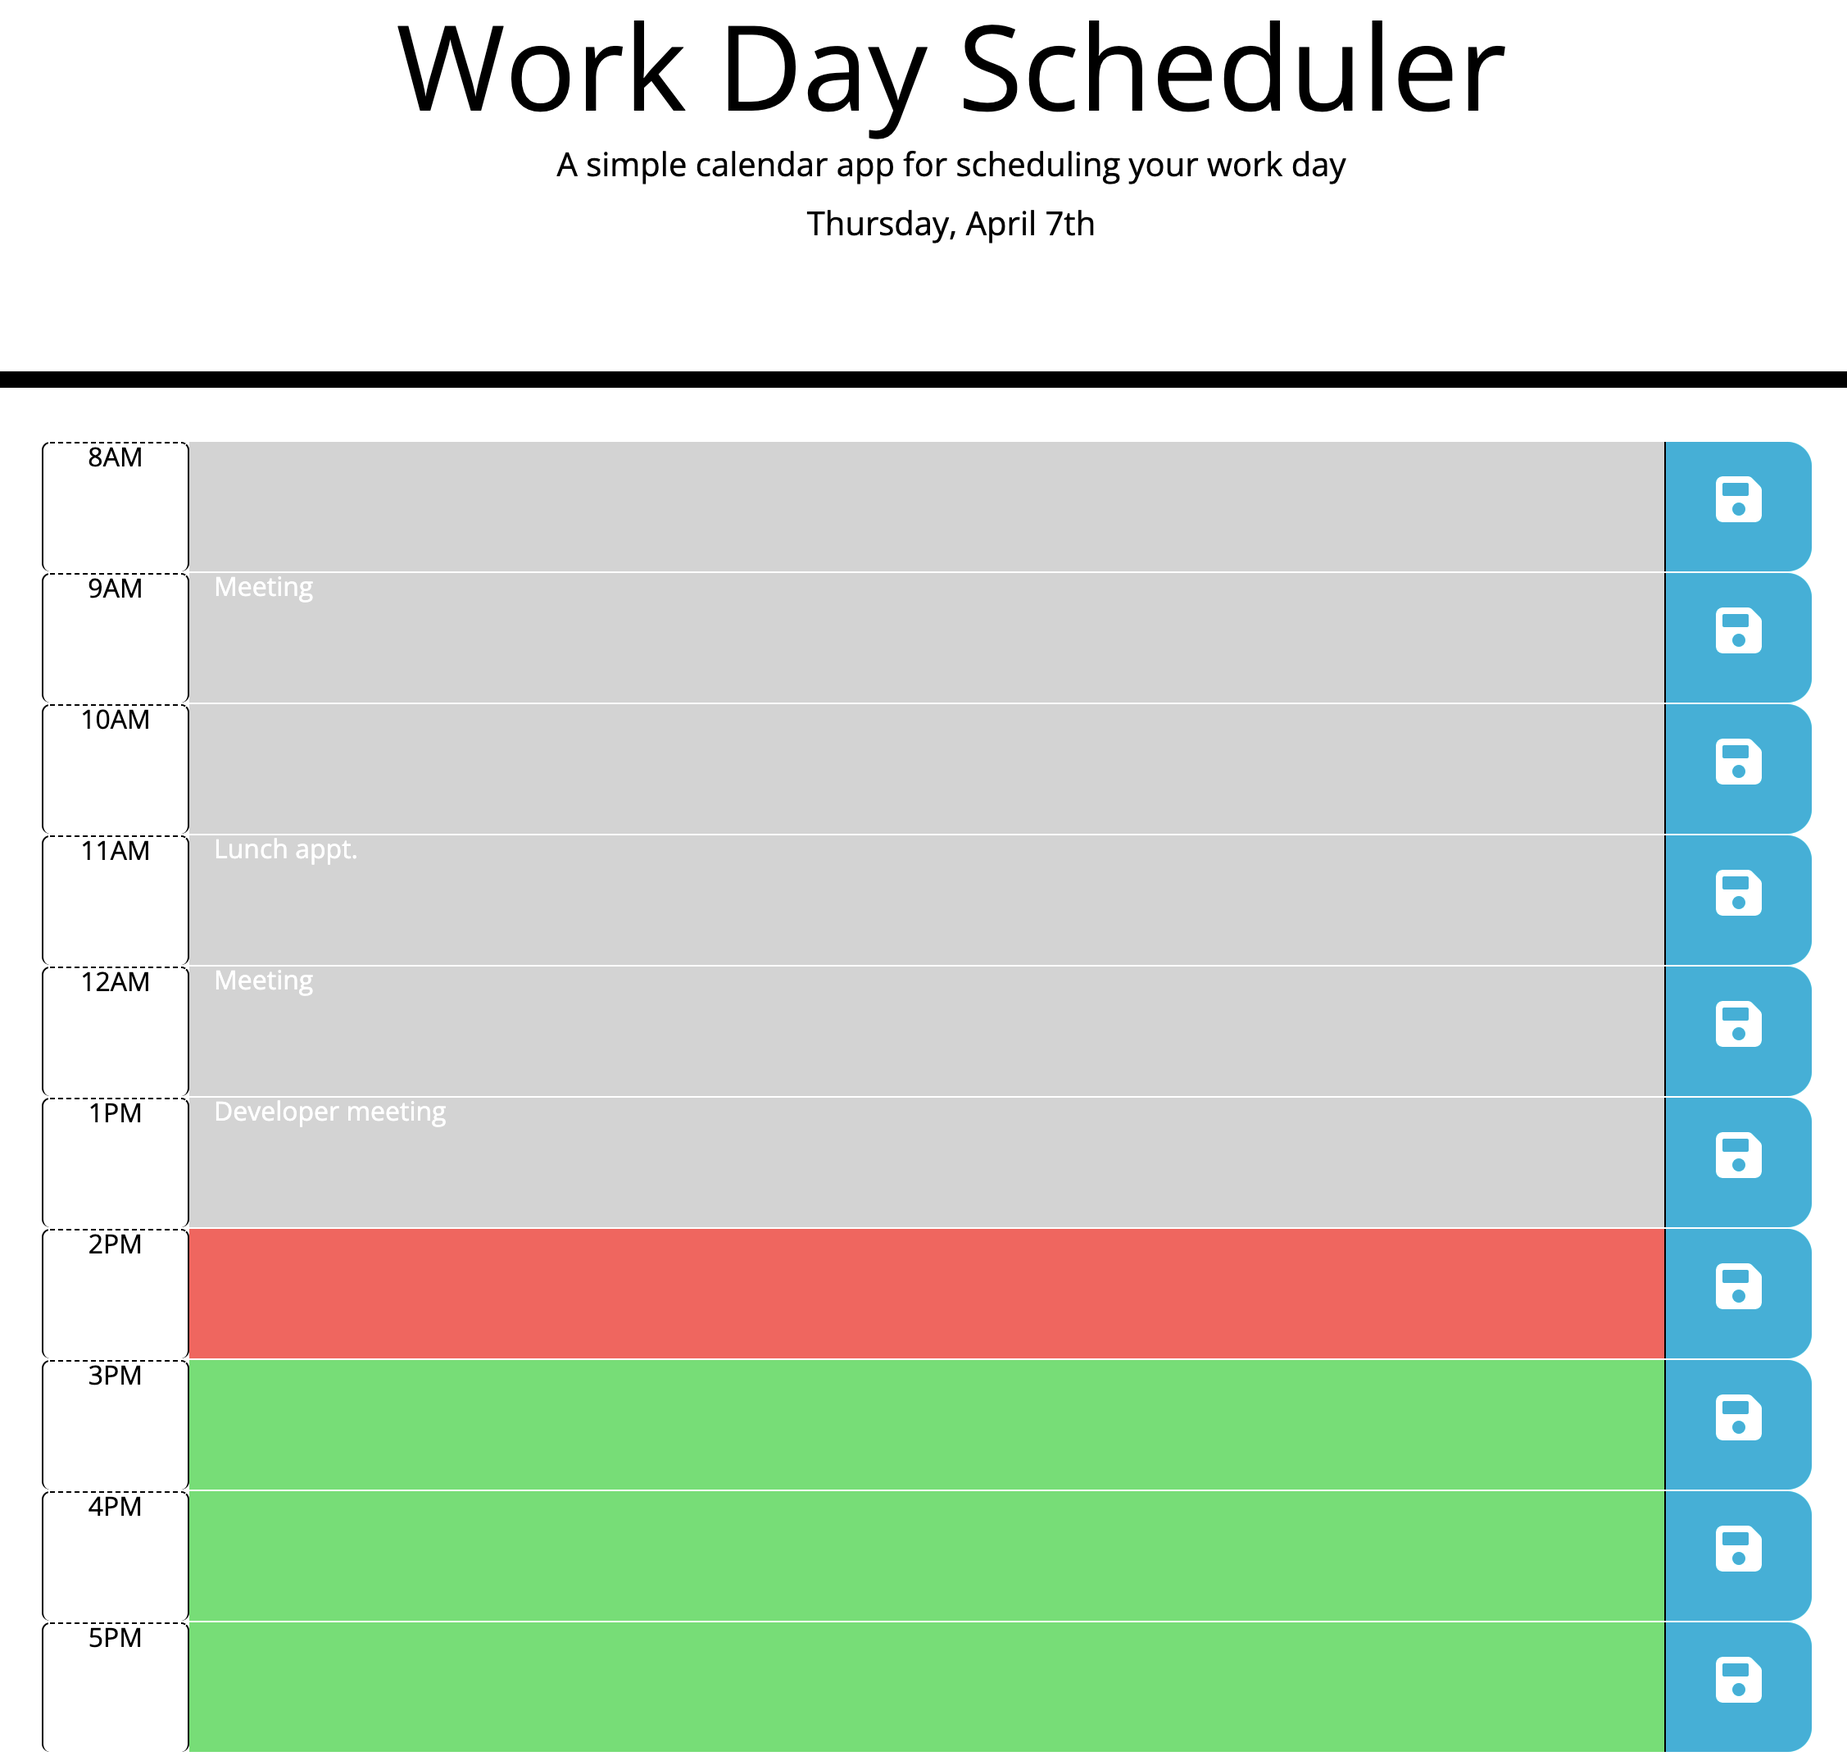
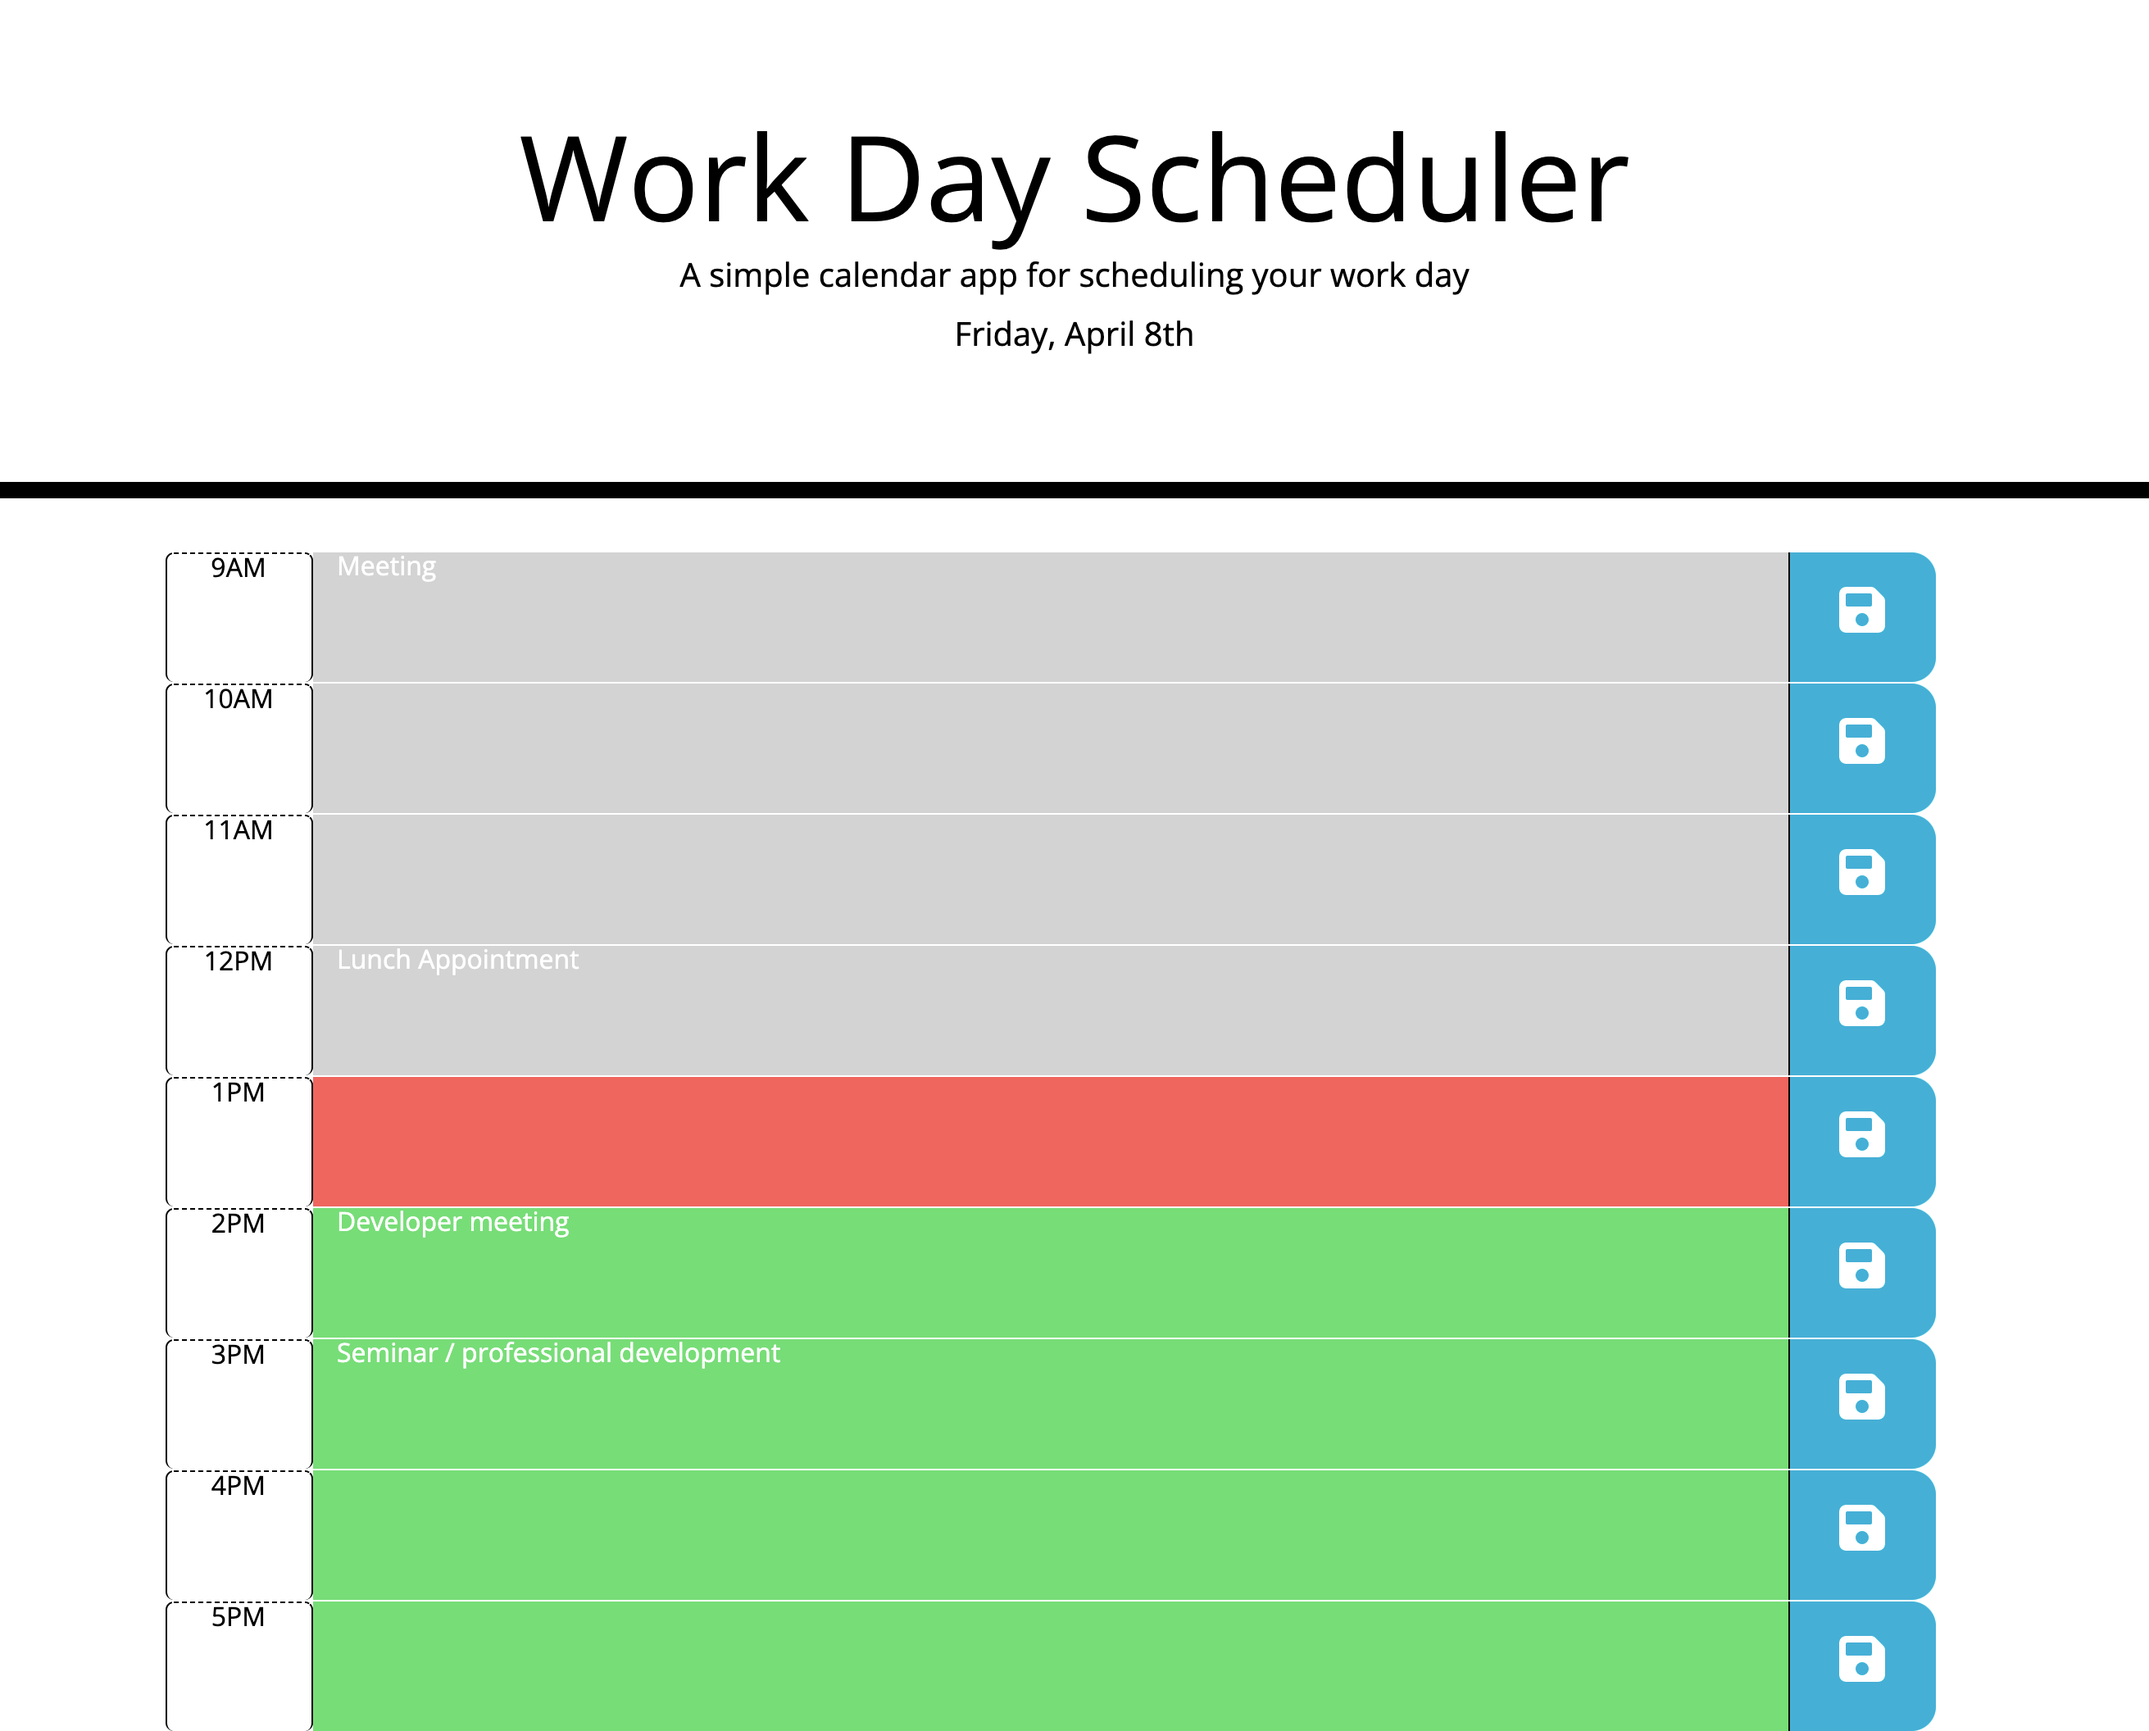
fixi a few bugs and update readme

diff --git a/assets/js/script.js b/assets/js/script.js
@@ -5,12 +5,15 @@ var apptArray = {};
 $("#currentDay").text(currentDay);
 
 // create scheduler rows and time block
-for (var i = 8; i < 18; i++){
+for (var i = 9; i < 18; i++){
     var rowEl = $("<div>").addClass("row col-12");
     var timeEl = $("<div>").addClass("hour time-block col-2 col-lg-1 d-flex justify-content-center");
     // convert 24hr time to 12 hour time
     if (i > 12) {
         timeEl.text(i - 12 + "PM");
+    }
+    else if (i === 12) {
+        timeEl.text("12PM");
     }
     else {
         timeEl.text(i + "AM");
@@ -44,7 +47,7 @@ var loadAppts = function() {
         var apptArray = {};
     }
     else {
-        for (var i = 8; i < 18; i++) {
+        for (var i = 9; i < 18; i++) {
             // skip null entries
             if(apptArray[i]) {
                 $("#timeBlock-"+i).text(apptArray[i][1]);

diff --git a/README.md b/README.md
@@ -7,16 +7,16 @@
 ![Bootstrap](https://img.shields.io/badge/bootstrap-%23563D7C.svg?style=for-the-badge&logo=bootstrap&logoColor=white)
 ---
 
-Work Day Sheduler is .....
+Work Day Sheduler is a very simple appointment scheduler. You are presented with a column of hourly time slots from 9 AM to 5 PM. Grey rows indicate times that have passed, red is present time, and green rows are future time slots. Get organized!
 
 ## User Interface
 <img src="./assets/images/work_day_scheduler.png" alt="work day scheduler" width="800"/>
 
 ## Usage
-After 
+Click on a appointment slot to enter a meeting description. You can edit the calendar by selecting text and changing it as meany times as you want. Pressing the save button will save your calendar to local storage so it will persist between sessions.
 
 ## Links to website and Github
-[Code-Quiz website](https://bagl0025.github.io/work_day_scheduler)
+[Work Day Schduler website](https://bagl0025.github.io/work_day_scheduler)
 
 [Github Repository](https://github.com/bagl0025/work_day_scheduler.git)
 
